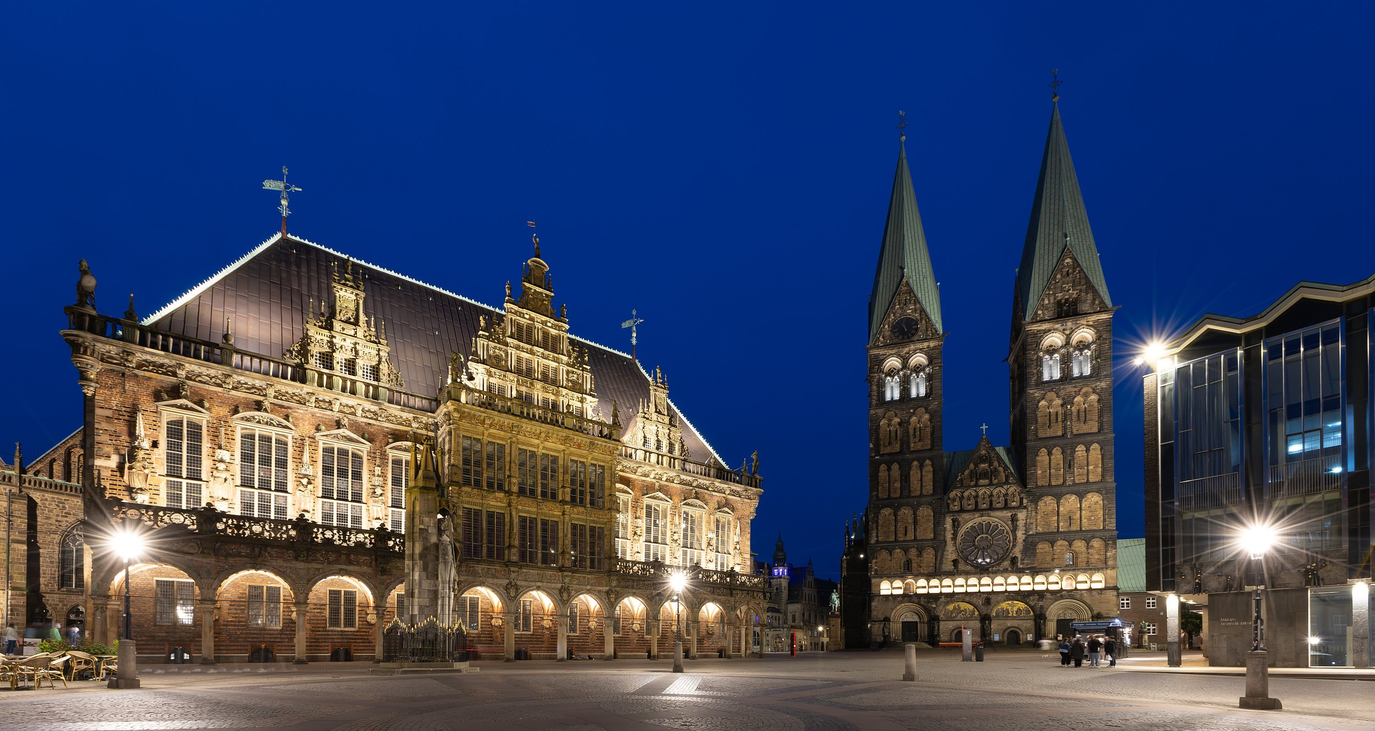
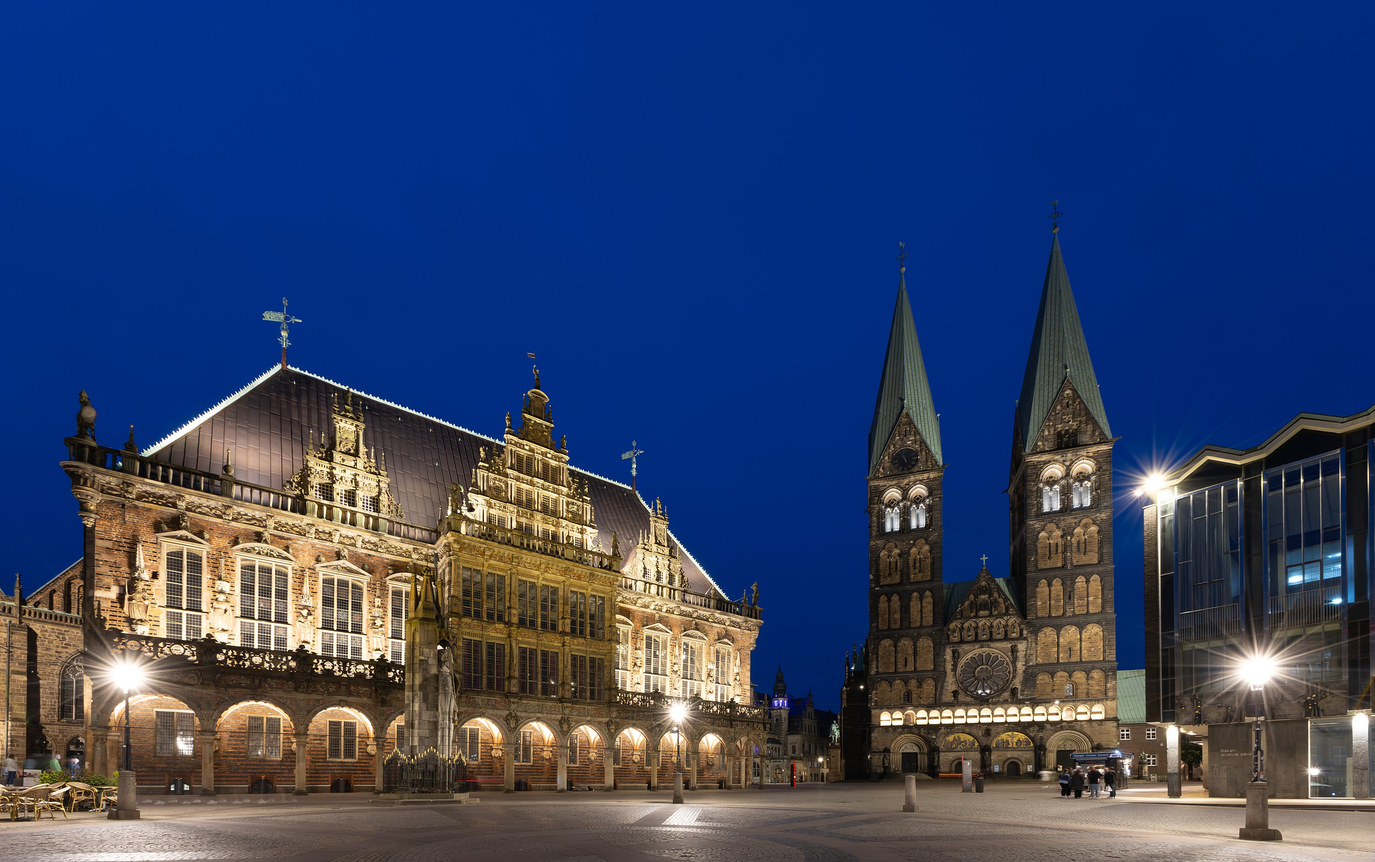
update design crop dates width

diff --git a/index.html b/index.html
@@ -168,6 +168,7 @@ section.scene{ position:relative; }
   display:block; font-family:var(--font-mono); font-size:clamp(10px,1.1vw,13px);
   letter-spacing:.5em; color:var(--chapter-accent); margin-bottom:1.6vh;
 }
+.cityname .d-short{ display:none; }
 
 .copyblock{
   position:absolute; z-index:7;
@@ -258,6 +259,10 @@ section.scene{ position:relative; }
   #sydney   .plane-media{ object-position:15% 50%; }
   #bremen   .plane-media{ object-position:77.5% 50%; }
 
+  /* mobile: keep the dates, drop the gaps around the dash (BRE & SYD) */
+  .cityname .d-long{ display:none; }
+  .cityname .d-short{ display:inline; }
+
   .copyblock{
     right:auto; left:50%; top:auto; bottom:22vh;
     transform:translateX(-50%);
@@ -329,7 +334,7 @@ section.scene{ position:relative; }
     </div>
 
     <h2 class="cityname" data-drift="1">
-      <span class="index">Chapter 01 · 1999 — 2018</span>
+      <span class="index">Chapter 01<span class="dates"> · 1999 — 2018</span></span>
       Istanbul
     </h2>
   </div>
@@ -374,7 +379,7 @@ section.scene{ position:relative; }
     </div>
 
     <h2 class="cityname" data-drift="1">
-      <span class="index">Chapter 02 · 2018 — 2026</span>
+      <span class="index">Chapter 02<span class="dates"><span class="d-long"> · 2018 — 2026</span><span class="d-short"> · 2018—2026</span></span></span>
       Bremen
     </h2>
   </div>
@@ -419,7 +424,7 @@ section.scene{ position:relative; }
     </div>
 
     <h2 class="cityname" data-drift="1">
-      <span class="index">Chapter 03 · 2026 — present</span>
+      <span class="index">Chapter 03<span class="dates"><span class="d-long"> · 2026 — present</span><span class="d-short"> · 2026—present</span></span></span>
       Sydney
     </h2>
   </div>
